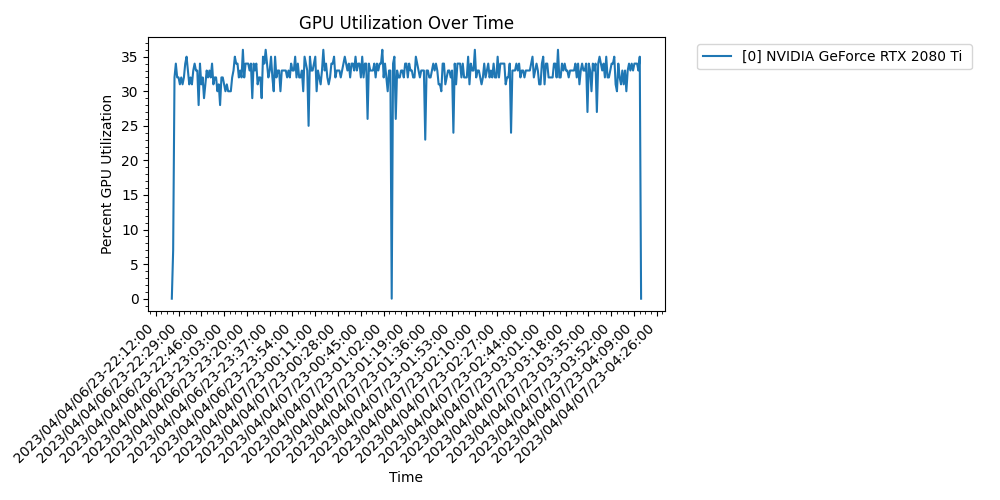
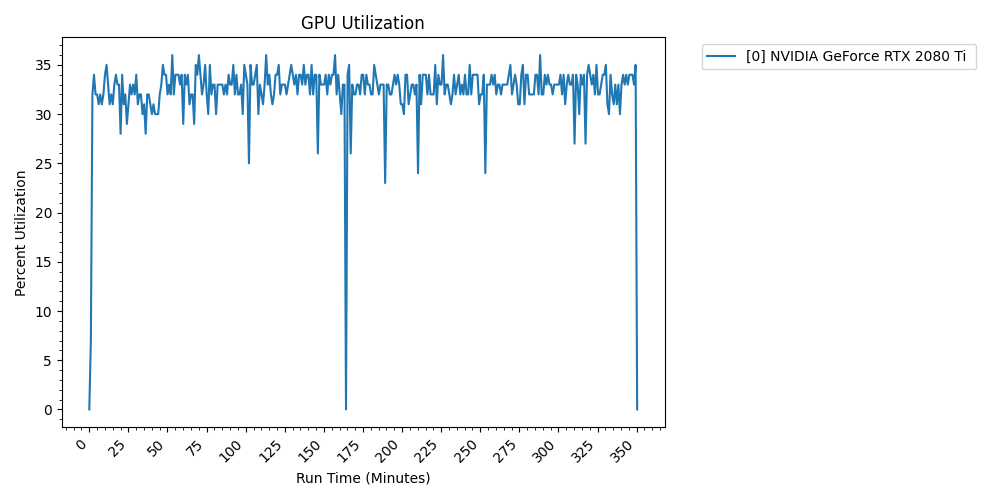
See changelog in README.md for full list of changes.

diff --git a/Utilization_Plot/utilization_plot.py b/Utilization_Plot/utilization_plot.py
@@ -135,7 +135,7 @@ def process_cpu_log(logfile):
 
 
 def create_plot(events, keys, height, width, event_interval, no_legend, save_name, plot_title, x_label, y_label,
-                source, cpu_events):
+                source, cpu_events, sub_plot_flag):
     """
     Creates a plot from a dictionary of GPU events with a list of GPUs that the events correspond to.
     :param events: Dictionary of GPU events.
@@ -150,6 +150,7 @@ def create_plot(events, keys, height, width, event_interval, no_legend, save_nam
     :param y_label: Label for the y-axis.
     :param source:  What to generate the plot for. (GPU, POWER, or VRAM) Will default to VRAM.
     :param cpu_events: List of CPU utilization events.
+    :param sub_plot_flag: Boolean used to determine if utilization polt is to be split into subplots.
     """
     if source == "GPU":
         s = 1
@@ -157,30 +158,58 @@ def create_plot(events, keys, height, width, event_interval, no_legend, save_nam
         s = 2
     else:
         s = 3
-    fig, ax = plt.subplots(figsize=(width, height))
-    plt.ylabel(y_label)
-    plt.xlabel(x_label)
-    plt.title(plot_title)
+    if sub_plot_flag is True:
+        fig, axs = plt.subplots(2, figsize=(width, height))
+    else:
+        fig, axs = plt.subplots(figsize=(width, height))
+    #plt.ylabel(y_label)
+    #plt.xlabel(x_label)
+    #plt.title(plot_title)
     if isinstance(keys, list):
         for item in keys:
-            ax.plot(events[item][0], events[item][s], label=item)
+            if sub_plot_flag is True:
+                axs[0].plot(events[item][0], events[item][s], label=item)
+                axs[0].set_title(f'GPU {plot_title}')
+            else:
+                axs.plot(events[item][0], events[item][s], label=item)
     else:
-        ax.plot(events[keys][0], events[keys][s], label=keys)
+        if sub_plot_flag is True:
+            axs[0].plot(events[keys][0], events[keys][s], label=keys)
+            axs[0].set_title(f'GPU {plot_title}')
+        else:
+            axs.plot(events[keys][0], events[keys][s], label=keys)
     if cpu_events is not None and source == "GPU":
         cpu_timestamps = []
         cpu_utilization = []
         for i in range(len(cpu_events)):
             cpu_timestamps.append(cpu_events[i].time_stamp)
             cpu_utilization.append(cpu_events[i].cpu)
-        ax.plot(cpu_timestamps, cpu_utilization, label='CPU Utilization')
-    ax.xaxis.set_major_locator(matplotlib.ticker.MultipleLocator(event_interval))
-    ax.xaxis.get_ticklocs(minor=True)
-    plt.minorticks_on()
-    for label in ax.get_xticklabels(which='major'):
-        label.set(rotation=45, horizontalalignment='right')
-    if no_legend is False:
-        plt.legend(bbox_to_anchor=(1.05, 1.0), loc='upper left')
+        if sub_plot_flag is True:
+            axs[1].plot(cpu_timestamps, cpu_utilization, label='CPU Utilization')
+            axs[1].set_title(f'CPU {plot_title}')
+        else:
+            axs.plot(cpu_timestamps, cpu_utilization, label='CPU Utilization')
+    if sub_plot_flag is True:
+        for ax in axs:
+            ax.xaxis.set_major_locator(matplotlib.ticker.MultipleLocator(event_interval))
+            ax.xaxis.get_ticklocs(minor=True)
+            ax.set(xlabel=x_label, ylabel=y_label)
+            for label in ax.get_xticklabels(which='major'):
+                label.set(rotation=45, horizontalalignment='right')
+            if no_legend is False:
+                ax.legend(bbox_to_anchor=(1.05, 1.0), loc='upper left')
+    else:
+        plt.ylabel(y_label)
+        plt.xlabel(x_label)
+        plt.title(plot_title)
+        axs.xaxis.set_major_locator(matplotlib.ticker.MultipleLocator(event_interval))
+        axs.xaxis.get_ticklocs(minor=True)
+        for label in axs.get_xticklabels(which='major'):
+            label.set(rotation=45, horizontalalignment='right')
+        if no_legend is False:
+            axs.legend(bbox_to_anchor=(1.05, 1.0), loc='upper left')
     plt.tight_layout()
+    plt.minorticks_on()
     plt.savefig(f'{save_name}_{source}_Utilization.png')
 
 
@@ -226,6 +255,7 @@ def main():
     cl_parser.add_argument('-n', '--no-legend', action='store_true', help='Remove the legend for generated plots.')
     cl_parser.add_argument('-r', '--rename', type=str, help='Base file name to rename generated plots to.')
     cl_parser.add_argument('-s', '--split', action='store_true', help='Split multiple GPUs out into separate plots.')
+    cl_parser.add_argument('-p', '--sub-plot', action='store_true', help='Display GPU and CPU utilization as subplots.')
     cl_parser.add_argument('-o', '--offset', type=int, default=0, help='Time in hours to offset the GPU timing.')
     cl_parser.add_argument('--cpu-files', nargs='+', help='List of memprof.csv files. '
                                                           'Ex) memprof-42.csv memprof-1138.csv...')
@@ -287,44 +317,44 @@ def main():
         for i in range(len(event_key_list)):
             file_name = f"{save_name}_{i}"
             # Plot percent GPU utilization.
-            plot_name = f"{i}_GPU Utilization"
+            plot_name = f"{i}_GPU_Utilization"
             xlabel = "Run Time (Minutes)"
-            ylabel = "Percent GPU Utilization"
+            ylabel = "Percent Utilization"
             source = "GPU"
             create_plot(sorted_events, event_key_list[i], height, width, event_interval, no_legend, file_name,
-                        plot_name, xlabel, ylabel, source, cpu_events)
+                        plot_name, xlabel, ylabel, source, cpu_events, cl_args.sub_plot)
             # Plot power utilization.
             plot_name = f"{i}_Power Utilization"
             ylabel = f"{i}_GPU Power Utilization"
             source = "POWER"
             create_plot(sorted_events, event_key_list[i], height, width, event_interval, no_legend, file_name,
-                        plot_name, xlabel, ylabel, source, cpu_events)
+                        plot_name, xlabel, ylabel, source, cpu_events, False)
             # Plot VRAM utilization.
             plot_name = f"{i}_VRAM Utilization"
             ylabel = f"{i}_VRAM Utilization"
             source = "VRAM"
             create_plot(sorted_events, event_key_list[i], height, width, event_interval, no_legend, file_name,
-                        plot_name, xlabel, ylabel, source, cpu_events)
+                        plot_name, xlabel, ylabel, source, cpu_events, False)
     else:
         # Plot percent GPU utilization.
         plot_name = "GPU Utilization"
         xlabel = "Run Time (Minutes)"
-        ylabel = "Percent GPU Utilization"
+        ylabel = "Percent Utilization"
         source = "GPU"
         create_plot(sorted_events, event_key_list, height, width, event_interval, no_legend, save_name,
-                    plot_name, xlabel, ylabel, source, cpu_events)
+                    plot_name, xlabel, ylabel, source, cpu_events, cl_args.sub_plot)
         # Plot power utilization.
         plot_name = "GPU Power Utilization"
         ylabel = "GPU Power Utilization"
         source = "POWER"
         create_plot(sorted_events, event_key_list, height, width, event_interval, no_legend, save_name,
-                    plot_name, xlabel, ylabel, source, cpu_events)
+                    plot_name, xlabel, ylabel, source, cpu_events, False)
         # Plot VRAM utilization.
         plot_name = "VRAM Utilization"
         ylabel = "VRAM Utilization"
         source = "VRAM"
         create_plot(sorted_events, event_key_list, height, width, event_interval, no_legend, save_name,
-                    plot_name, xlabel, ylabel, source, cpu_events)
+                    plot_name, xlabel, ylabel, source, cpu_events, False)
 
 
 if __name__ == "__main__":

diff --git a/Utilization_Plot/README.md b/Utilization_Plot/README.md
@@ -20,9 +20,13 @@ This will generate the three utilization graphs in the same directory as the fil
 
 The example files are generated with the following command:
 ```
-python3 utilization_plot.py ./example/se3-transformer-job-rtx2080-jvdgz-gpustat.log -i 17
+python3 utilization_plot.py ./example/se3-transformer-job-rtx2080-jvdgz-gpustat.log -i 25
 ```
 ### Changelog
+2023/05/09
+- Updated the script to allow splitting of the GPU and CPU utilization to subplots in same figure.
+- Recreated the plots in [example](https://github.com/WyoARCC/GPU_benchmarking_toolkit_for_ML/tree/main/Utilization_Plot/example) with latest version of the script.
+ 
 2023/05/08
 - Updated the script to display the total runtime of the benchmark on the X axis of the generated plots.
 
